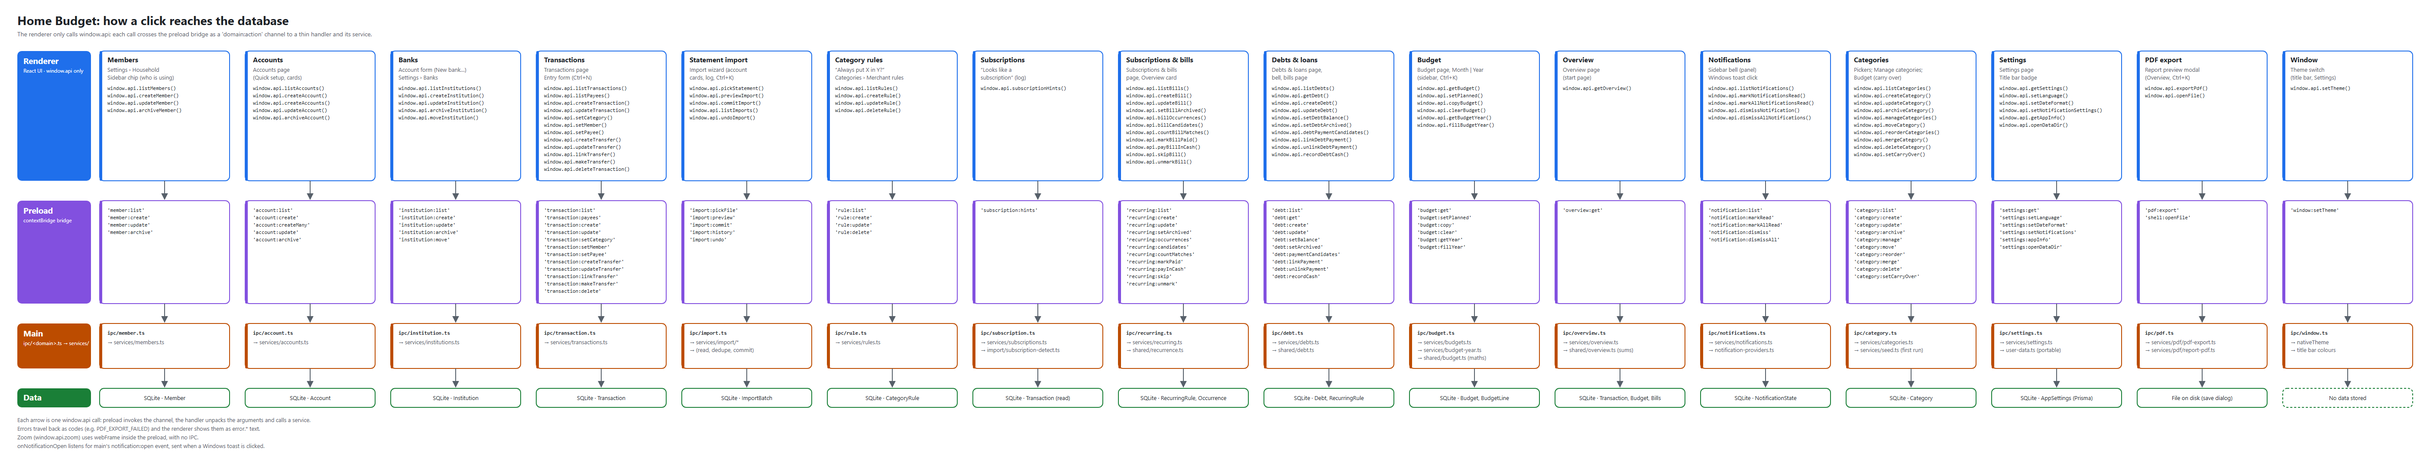
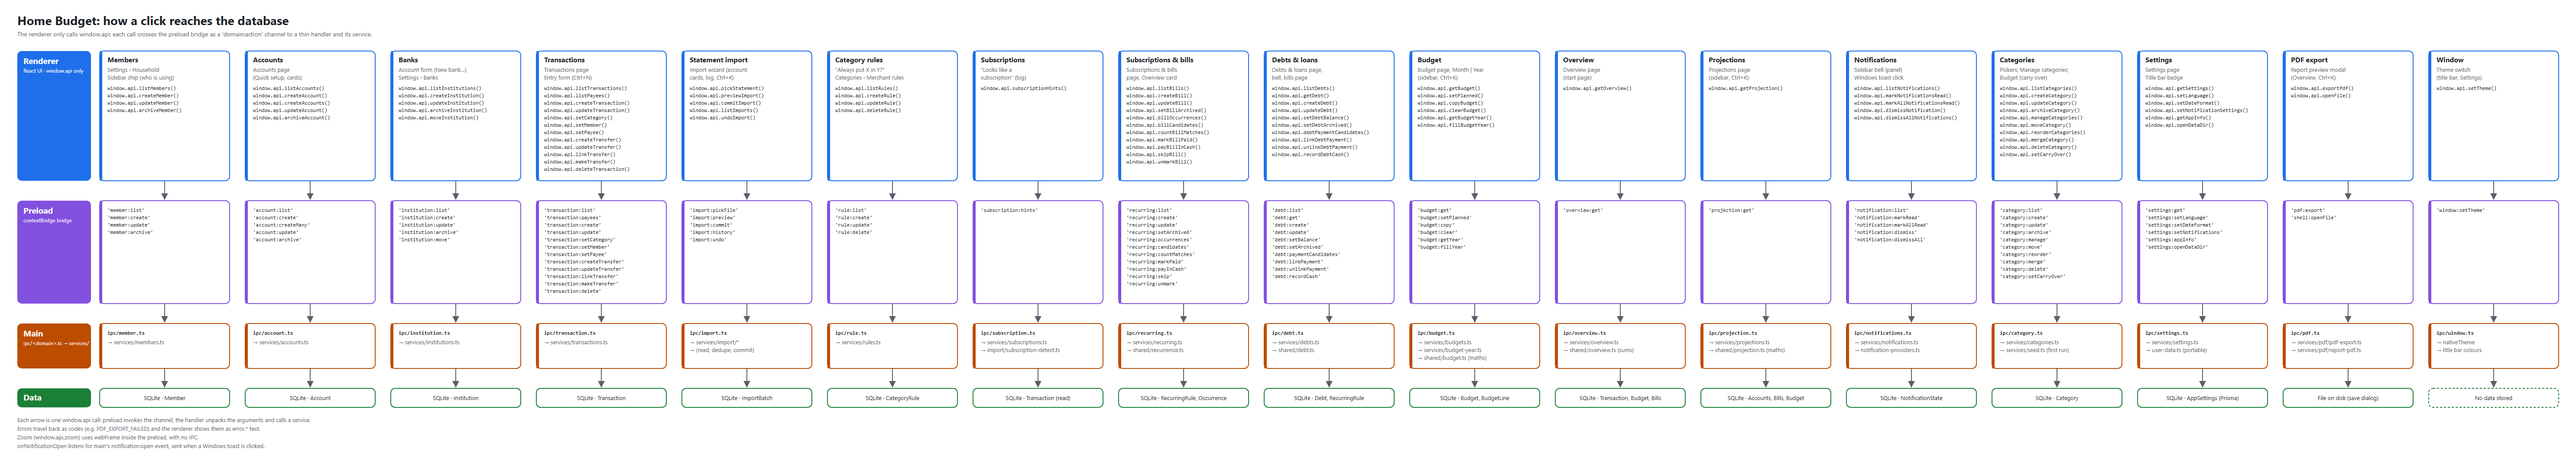
docs: projections feature doc, roadmap done row, diagram

diff --git a/docs/features/projections.md b/docs/features/projections.md
@@ -1,0 +1,73 @@
+# Projections
+
+**User's job:** "Are we going to be short, and when?" The page answers it from today's money, the bills, income
+and instalments on their dates, and the budget plan. One click goes to the month that needs a change. Starts from
+**Projections** in the sidebar (also `Ctrl+K`).
+
+## UX
+
+- **Header:** "Projections" with the context line (`from €590 today • 12 months • other months repeat the plan of
+  October 2026`). On the right: **6 / 12 / 24 months** (12 by default, remembered per PC; decided 2026-10-30).
+- **Tiles:** **Today** (money in accounts, meal vouchers apart), **Lowest point** (month-end amount and month;
+  below 0 in red with a warning icon and the words "below zero"), **In N months** (end balance, more or less
+  than today).
+- **Banner:** when a month ends below 0, "The balance goes below zero in March 2027 (−€4.462,90)" with **Open
+  budget** on that month. With no plan and no bills, an info banner links to **Budget** and **Subscriptions &
+  bills** (the line stays flat).
+- **Chart** (`dataviz` rules, hand-drawn SVG): month-end balance from a "Today" point, 2px line, dots with a
+  surface ring, months below 0 in `chart-negative`, recessive gridlines, a stronger zero line, the lowest point
+  labelled (with a surface halo). Hover or arrow keys (Home/End) move a crosshair, and the tooltip shows the
+  month's end, in and out. The month table carries every number, so the chart is never the only source.
+- **Month table:** month · **In** · **Out** · **Balance at month end** (signed, right-aligned). The month name
+  opens its budget. The line under it says *rest of this month*, *plan of {month}* when repeated, or *bills only,
+  no plan*. A chevron opens the categories of the month, largest first, each marked *bills*, *plan* or *bills +
+  plan* with the rule names.
+- **States:** spinner; no accounts → empty card with **Go to Accounts**; load error → banner. A footnote
+  explains the rules below.
+
+## Behaviour
+
+- **Start:** the Overview's money total (`accountTotals().spendableCents`): every active account but meal
+  vouchers, cards negative. Transfers between own accounts never count.
+- **Months:** the current month (only what is still to come) plus the next N−1.
+- **Per month and category** (decided 2026-10-30): the larger of the budget plan and the rules due that month
+  (every due date of weekly, monthly, yearly and every-N rules; debt instalments are rules). A month with a plan
+  of its own uses it. Any other month repeats **this month's plan** (or the latest one before it), so a one-off
+  future month never spreads (decided 2026-10-30, after the walkthrough).
+- **Current month:** expected − booked so far, never below 0, so a paid bill is not counted twice and an
+  overspent category adds nothing more.
+- **Savings categories:** rules only. Planned saving is usually a transfer to an account already in the total.
+- **Meal-voucher top-ups** count as income. The food they pay for is in the spending plan, so the pair nets out
+  even though the voucher balance is left out of the start.
+- Archived rules and categories are left out; overdue bills from earlier months are not added (the bell shows
+  them).
+- Nothing is stored: the forecast is computed on read and reloads after any write.
+
+## Code
+
+| Path | Role |
+| --- | --- |
+| `src/shared/projection.ts` | Types, `HORIZONS`, `planMonthFor`, `projectMonths` (all the maths) |
+| `src/main/services/projections.ts` | `getProjection`: accounts, rules, plans, booked so far → `projectMonths` |
+| `src/renderer/src/pages/ProjectionsScreen.tsx` | Page: header, horizon switch, tiles, banners, states |
+| `src/renderer/src/components/projections/` | `ProjectionChart`, `ProjectionTable` |
+| `src/renderer/src/lib/projection.ts` | Chart scale and ticks, month labels, repeated plan month |
+| `src/renderer/src/store/projections.ts` | Data and load (latest answer wins) |
+| `src/renderer/src/store/ui.ts` | `projectionMonths`, remembered per PC |
+| `src/renderer/src/assets/theme.css` | `chart-balance`, `chart-negative` (validated with the dataviz script, light + dark) |
+
+## IPC
+
+| Channel | Args → result | Errors |
+| --- | --- | --- |
+| `projection:get` | `(months: 6 \| 12 \| 24)` → `Projection` | `INVALID_INPUT` |
+
+## Tests
+
+`src/shared/projection.test.ts` (larger of plan and bills with the sign, repeating this month's plan and never
+a later one-off, current month remaining, savings, yearly and every-N rules with end dates, lowest point and
+first month below 0, unknown categories), `src/main/__tests__/projection-services.test.ts` (start = Overview
+total with vouchers apart, transfers, debt instalments, archived rules and categories, bad horizon) and
+`lib/projection.test.ts` (scale, labels, repeated plan month).
+
+**Later:** what-if changes (a one-off expense, a pay rise) without touching the budget; a balance per account.

diff --git a/docs/roadmap.md b/docs/roadmap.md
@@ -6,7 +6,7 @@ As of 2026-10-30 · Andrew Kondylis
 
 The project starts from the Matchday shell (theme, UI kit, UX rules). The Matchday conveniences (palette, hover cards, tour, portable edition, PDF preview) have been ported.
 The first domain slice has shipped: accounts and cards, categories, transactions with quick cash entry, and Alpha
-Bank / Eurobank statement import (plan `.claude/plans/in-the-app-i-quizzical-stroustrup.md`). **10 items** are queued
+Bank / Eurobank statement import (plan `.claude/plans/in-the-app-i-quizzical-stroustrup.md`). **9 items** are queued
 in Future, grouped by theme with one global priority (`#`); the order is a proposal to discuss. Three items wait on a
 decision.
 
@@ -22,6 +22,7 @@ Details live in the linked feature doc (`docs/features/`). Newest first.
 
 | Shipped | Feature | Notes |
 | --- | --- | --- |
+| 2026-10-30 | Projections | Month-end balance for the next 6, 12 or 24 months (12 by default, decided 2026-10-30) from today's money (vouchers apart), bills, instalments and income rules on their dates and the budget plan (the larger of plan and bills per category; a month with no plan repeats this month's, so a one-off never spreads, decided 2026-10-30); lowest point and the month it goes below €0 with **Open budget**; chart + month table with each month's categories · [projections](features/projections.md) |
 | 2026-10-30 | Yearly budget | **Month \| Year** on the Budget page: 12-month plan grid edited in place with what was spent and over marks per month, fills for empty months (from a month's plan, the bills or one amount; never overwrite, decided 2026-10-30); **vs last year** compares actual spending over the same dates (decided 2026-10-30); printable landscape sheet. Pay-period budgeting moved to #20 (decided 2026-10-30) · [budget](features/budget.md) |
 | 2026-10-30 | Debts & loans | Bank loans with interest (monthly schedule, interest before payment) and interest-free card instalments (decided 2026-10-30), plus money owed by or to relatives (both ways, decided 2026-10-30); what is left, payoff date and schedule; instalments are bill rules, so imported rows tick them off and the bell says **Instalment due** (decided 2026-10-30); balance from a statement, extra payments; **Snowball / Avalanche** plan with an extra monthly amount · [debts & loans](features/debts.md) |
 | 2026-10-30 | Notifications | Sidebar bell for bills due and overdue (remind N days before, household-wide in Settings or per bill, decided 2026-10-30), income not come in, planned categories over budget, rows to categorise and accounts not imported for 30 days; one click to **Mark as paid**, **Open budget**, **Categorise** or **Import**; Windows toasts for what is due today or late while the app is open, on/off in Settings (decided 2026-10-30). Instalment due added with Debts & loans · [notifications](features/notifications.md) |
@@ -55,7 +56,6 @@ Sizes: S ≈ ½ day, M ≈ 1–2 days, L > 2 days. *New* marks items added after
 | # | Feature | Size | What it does | Depends on / plan | Open |
 | --- | --- | --- | --- | --- | --- |
 | 17 | Payment calendar *(new)* | M | Amounts due by date with paid marks, pay days across the year; week starts Monday or Sunday | #7 | — |
-| 11 | Projections | M | Balance forecast per month from rules, instalments and planned income | #7, #9 | Horizon (6/12/24 months) |
 | 20 | Pay-period budgeting *(new)* | M–L | Months that start on pay day (e.g. the 25th) for the budget, carry, Overview and notifications | Yearly budget | Which day; per household or per income? |
 
 ### Insight & data

diff --git a/docs/features/debts.md b/docs/features/debts.md
@@ -119,5 +119,5 @@ page, that meant a separate bank app for each loan plus mental arithmetic; now o
 
 ## Later
 
-Projections (#11) and net worth (#18) use the remaining balance. Variable rates are covered for now by **Set
+Instalments feed [projections](projections.md) (#11) as bill rules; net worth (#18) will use the remaining balance. Variable rates are covered for now by **Set
 balance from statement**.

diff --git a/docs/features/subscriptions-bills.md b/docs/features/subscriptions-bills.md
@@ -93,4 +93,5 @@ and `Ctrl+K` "Add a bill or subscription".
 
 ## Later
 
-- A payment calendar (#17); projections (#11). Reminders and the bell shipped with [notifications](notifications.md) (#8).
+- A payment calendar (#17). Reminders and the bell shipped with [notifications](notifications.md) (#8); rules feed
+  [projections](projections.md) (#11) on their due dates.
